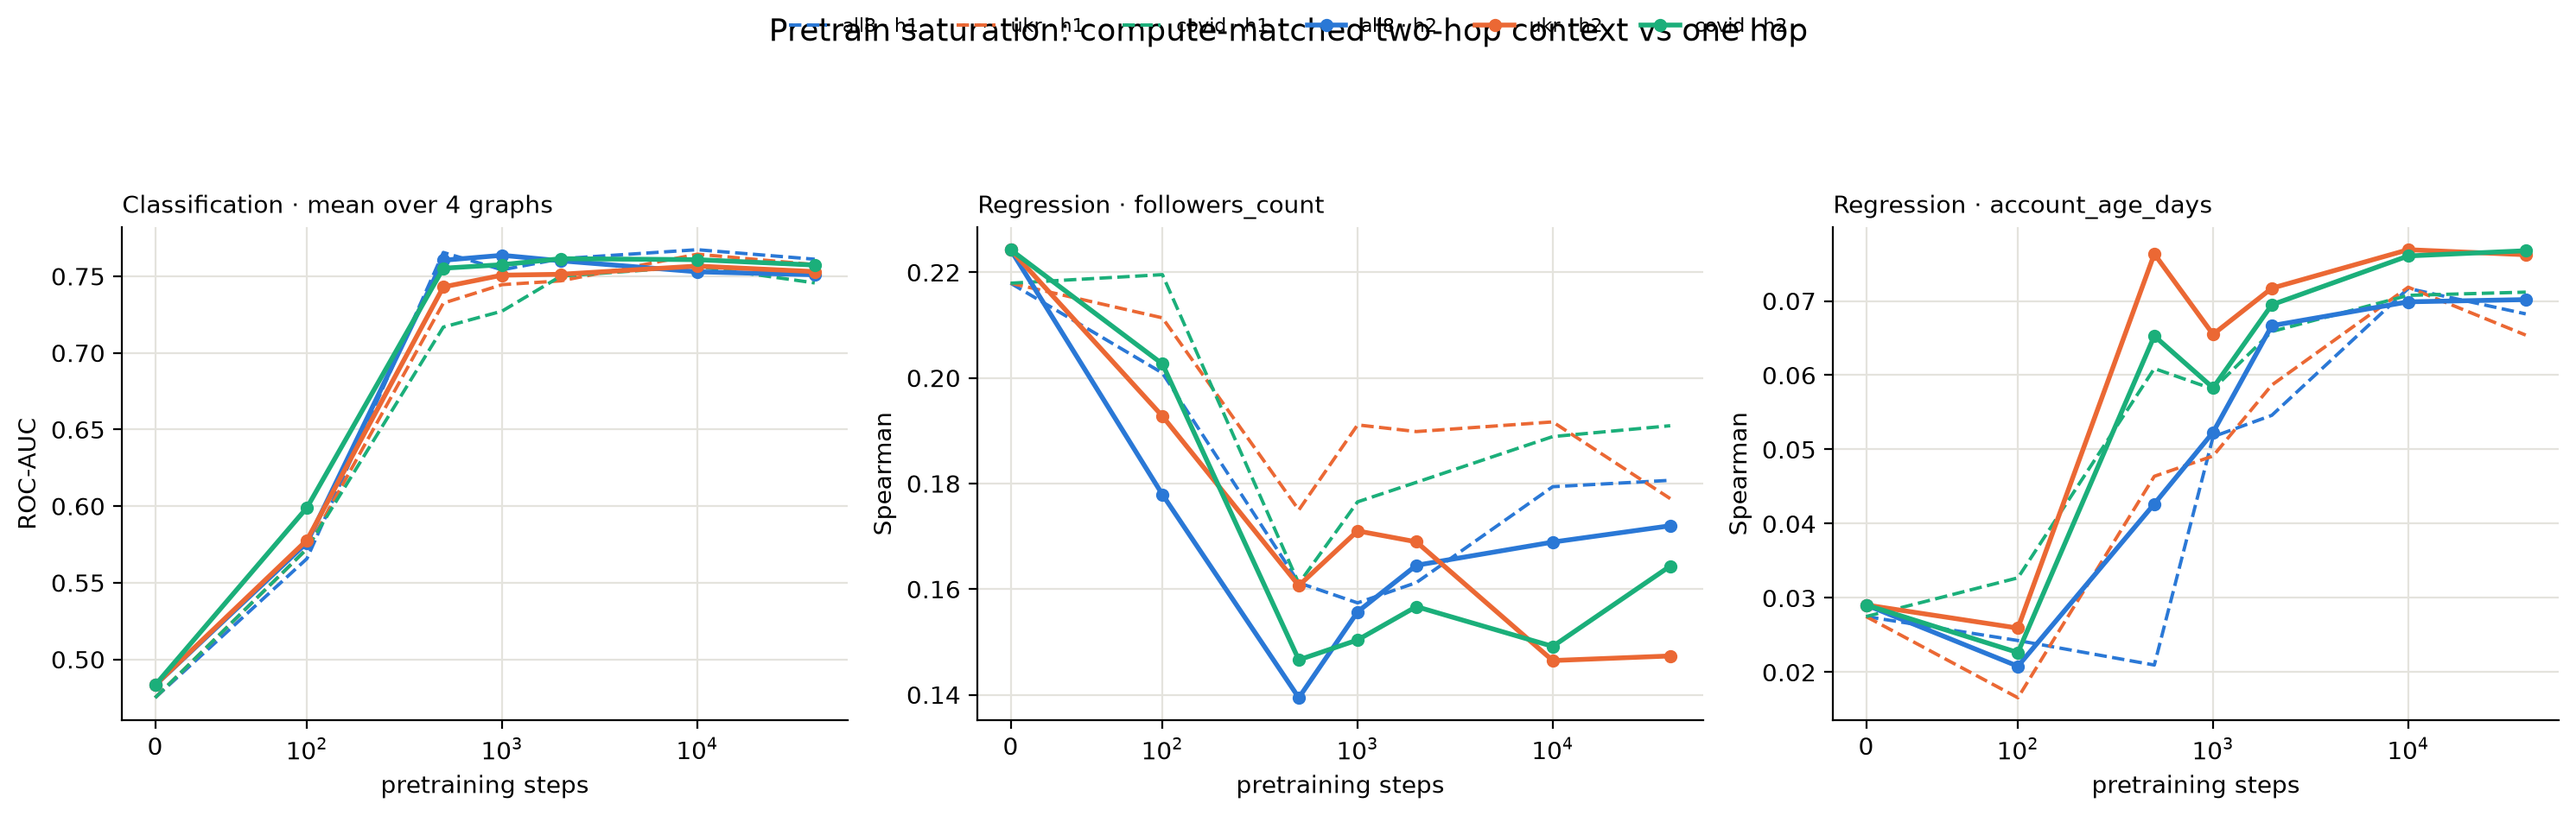
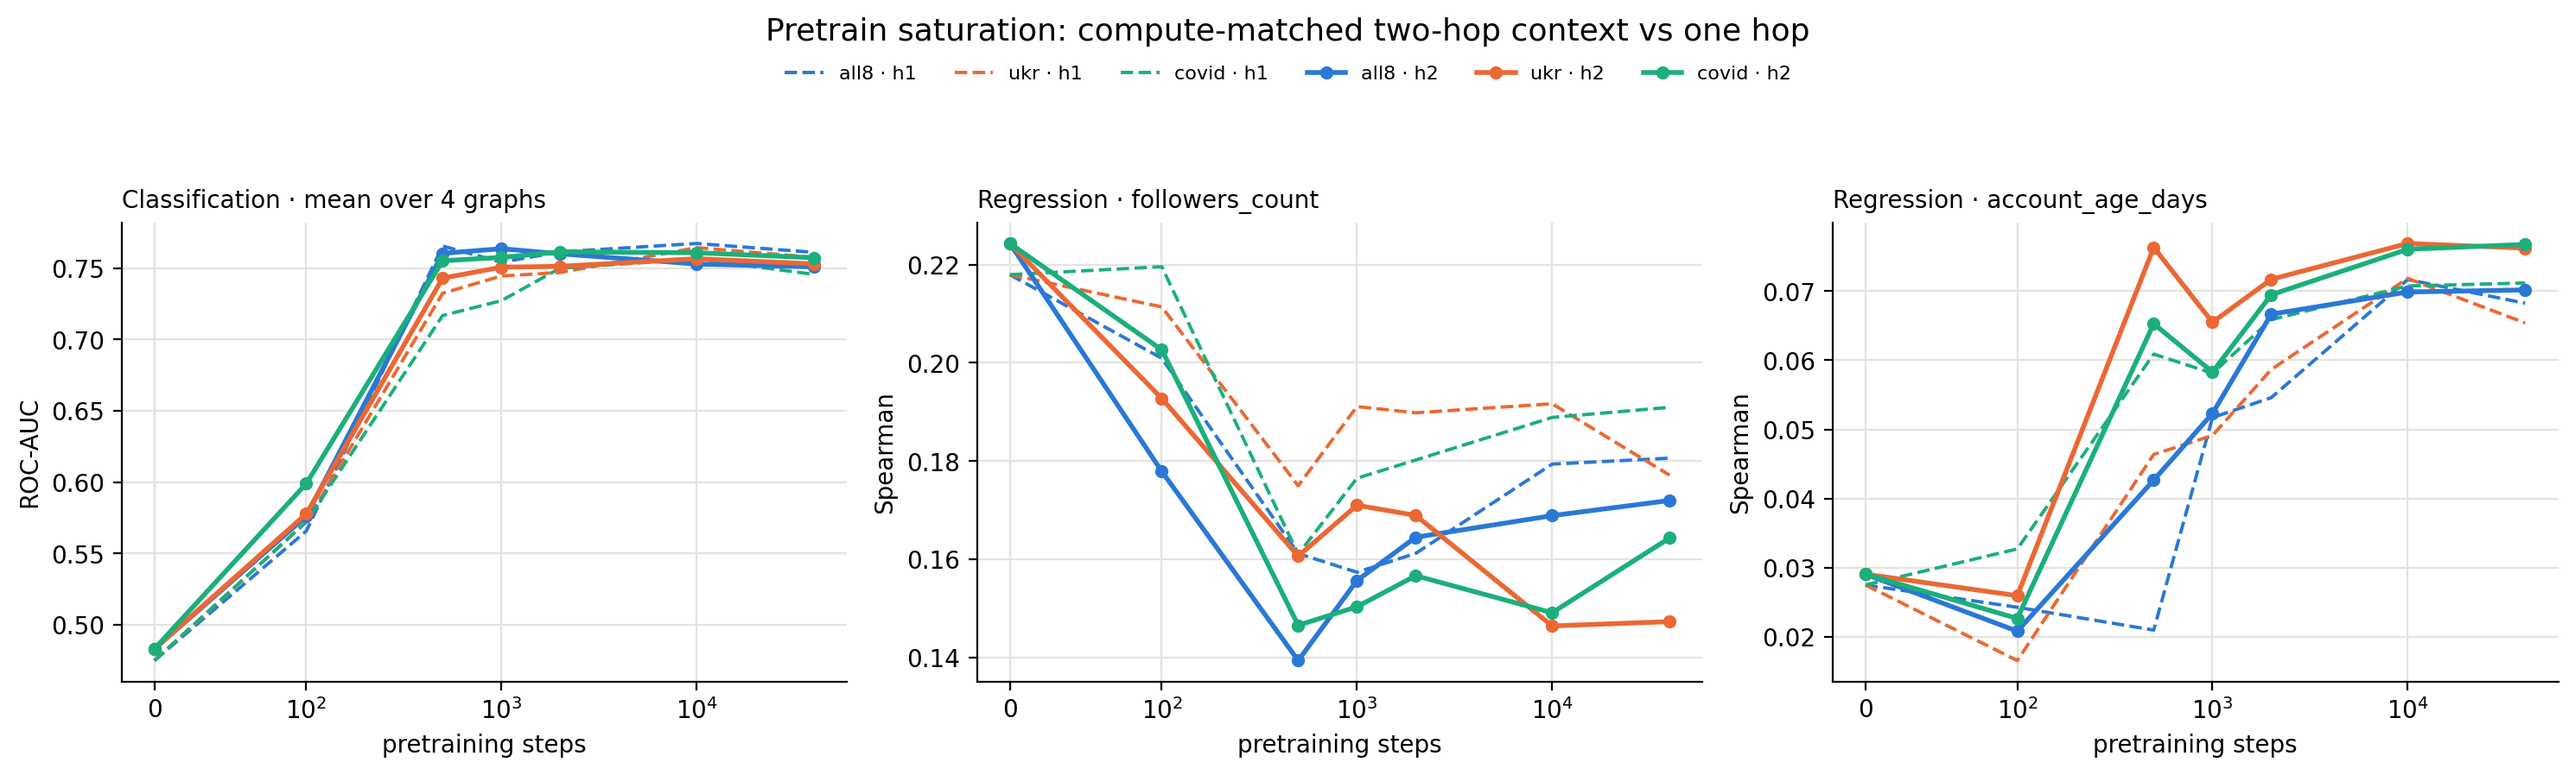
docs: record matched two-hop saturation findings

diff --git a/scripts/experiments/analysis/pretrain_saturation_nhop2/analyze_results.py b/scripts/experiments/analysis/pretrain_saturation_nhop2/analyze_results.py
@@ -286,10 +286,18 @@ def make_figure(h1: pd.DataFrame, h2: pd.DataFrame, out: Path) -> None:
         ax.grid(True, color="#e4e3dd", linewidth=0.8)
         ax.spines[["top", "right"]].set_visible(False)
     handles, labels = axes[0].get_legend_handles_labels()
-    fig.legend(handles, labels, frameon=False, ncol=6, loc="upper center", fontsize=8)
+    fig.legend(
+        handles,
+        labels,
+        frameon=False,
+        ncol=6,
+        loc="upper center",
+        bbox_to_anchor=(0.5, 0.955),
+        fontsize=8,
+    )
     fig.suptitle("Pretrain saturation: compute-matched two-hop context vs one hop",
-                 y=1.04, fontsize=13)
-    fig.tight_layout(rect=[0, 0, 1, 0.92])
+                 y=0.995, fontsize=13)
+    fig.tight_layout(rect=[0, 0, 1, 0.88])
     out.parent.mkdir(parents=True, exist_ok=True)
     fig.savefig(out, dpi=200, bbox_inches="tight", facecolor="white")
 

diff --git a/scripts/experiments/analysis/pretrain_saturation_nhop2/FINDINGS.md b/scripts/experiments/analysis/pretrain_saturation_nhop2/FINDINGS.md
@@ -1,0 +1,125 @@
+# Compute-matched two-hop pretrain saturation — findings
+
+**Question.** Does the early saturation seen with one-hop sampled context persist when
+the encoder receives genuine two-hop context at approximately the same per-subgraph
+compute budget?
+
+**Answer.** Yes for classification. Two-hop context reproduces the same sharp rise by
+step 500 and flat 500–40 000 plateau. It does not produce a consistent downstream gain
+over one hop. The repaired regression probe also preserves the earlier target split:
+`account_age_days` improves later, while `followers_count` is best at step 0 and declines
+with training.
+
+![Compute-matched one-hop and two-hop saturation curves](figures/nhop_comparison.png)
+
+## Controlled intervention
+
+The historical one-hop sampler uses fanout 100, so a center subgraph contains at most
+about 101 nodes and 100 sampled edges. A literal `n_hop=2` pilot reused fanout 100 and
+expanded toward the 2 000-node cap. It was roughly 20 times larger per subgraph, ran much
+more slowly, and confounded radius with compute. That pilot used `sat_h2_*` names, was
+stopped early, and is excluded from every committed table.
+
+The registered rerun changes only the context radius as closely as this sampler permits:
+
+- `n_hop=2`;
+- fanouts `9,9` (about 100 nodes and 99 sampled edges at maximum);
+- hard node cap 101; and
+- `neighbor_matching_walk_hops=1`, preserving the original direct-neighbour NM positive.
+
+The same sampler settings are used for pretraining and downstream embedding extraction.
+The architecture remains `S,U,M` with one background message-passing layer; two-hop
+nodes reach the global subgraph pooling readout, so this is not an `S2` experiment.
+
+## Execution record
+
+Three fresh arms (`all8`, `ukr`, `covid`) ran from initialization through exactly 40 000
+optimizer steps, with checkpoints at 0, 100, 500, 1 000, 2 000, 10 000, and 40 000.
+The three step-0 PyTorch archives have different file bytes but tensor-identical model
+states; the resolver hashes model tensors and collapses them to one shared evaluation.
+
+Downstream evaluation completed without logged failures:
+
+- 76/76 classification cells: 19 distinct checkpoints × 4 graphs, fixed 10-shot
+  episodes, ROC-AUC;
+- 152 frozen-encoder regression cells: 19 checkpoints × 4 graphs × 2 targets, 500
+  shared 10-shot ridge-probe episodes, Spearman; and
+- 8 raw-feature regression floors.
+
+The primary regression metric is Spearman. Some ridge fits have extreme RMSE/R² values;
+those scale-sensitive diagnostics are retained in the raw evidence but are not used for
+the saturation claim.
+
+## Classification saturation is robust to two-hop context
+
+Mean ROC-AUC over the four labelled graphs:
+
+| step | all8 | ukr | covid |
+|---:|---:|---:|---:|
+| 0 | 0.483 | 0.483 | 0.483 |
+| 100 | 0.576 | 0.578 | 0.599 |
+| 500 | **0.760** | 0.743 | 0.755 |
+| 1 000 | **0.764** | 0.751 | 0.757 |
+| 2 000 | 0.760 | 0.751 | **0.761** |
+| 10 000 | 0.753 | **0.757** | 0.761 |
+| 40 000 | 0.751 | 0.753 | 0.757 |
+
+By step 500, the arms have realized 98.3% (`all8`), 92.4% (`ukr`), and 96.2%
+(`covid`) of their step-0-to-best gain. The entire 500–40 000 range spans only 0.013,
+0.014, and 0.006 ROC-AUC respectively. Increasing the training budget another 80 times
+does not improve the mean classification result.
+
+## Two hops do not consistently beat one hop
+
+Across the 84 paired classification cells, compute-matched two-hop context changes mean
+ROC-AUC by +0.0072 (median +0.0033), with 48/84 cells positive. The effect is not uniform:
+
+| pretraining arm | mean two-hop minus one-hop ROC-AUC |
+|---|---:|
+| all8 | -0.0004 |
+| ukr | +0.0032 |
+| covid | +0.0187 |
+
+The pooled advantage is concentrated at steps 100–1 000 (+0.014 to +0.015). It is
+slightly negative at 10 000 (-0.0059) and essentially zero at 40 000 (-0.0010). Without
+independent training replicates for this intervention, the cell-level differences do not
+support a general claim that two-hop context improves transfer. They do support the
+stronger qualitative conclusion that early saturation is unchanged.
+
+## Regression keeps the target-specific split
+
+Mean Spearman over four graphs:
+
+| target | arm | step 0 | step 500 | step 10 000 | step 40 000 |
+|---|---|---:|---:|---:|---:|
+| followers | all8 | **0.224** | 0.139 | 0.169 | 0.172 |
+| followers | ukr | **0.224** | 0.161 | 0.147 | 0.147 |
+| followers | covid | **0.224** | 0.147 | 0.149 | 0.164 |
+| account age | all8 | 0.029 | 0.043 | 0.070 | **0.070** |
+| account age | ukr | 0.029 | 0.076 | **0.077** | 0.076 |
+| account age | covid | 0.029 | 0.065 | 0.076 | **0.077** |
+
+`followers_count` does not benefit from NM pretraining in either context regime; its
+shared untrained encoder is the best point. `account_age_days` improves and plateaus
+later, around 2 000–10 000 steps depending on arm. Relative to one hop, two hops reduce
+mean followers Spearman by 0.008–0.020 but increase account-age Spearman by 0.002–0.012.
+This opposite target response cancels in pooled regression averages and should not be
+summarized as one scalar effect.
+
+## Claim boundary
+
+This experiment establishes that the classification saturation result is not an artifact
+of restricting sampled context to one hop when per-subgraph node/edge budgets and the NM
+positive definition are held approximately fixed. It does **not** test deeper message
+passing, larger two-hop samples, or a two-step NM objective. It also does not establish
+two-hop superiority: the paired differences are small, heterogeneous, and lack training
+replicates.
+
+## Evidence map
+
+- `data/pretrain_saturation_nhop2_long.csv`: 252-row standalone two-hop matrix.
+- `data/nhop_comparison.csv`: 252 paired two-hop-minus-one-hop cells.
+- `data/summary.csv`: arm/task saturation diagnostics.
+- `data/regression_floors.csv`: eight raw-feature probe floors.
+- `data/reg_probe/`: four per-graph CSVs and JSON provenance sidecars.
+- `figures/nhop_comparison.png`: committed comparison figure.

diff --git a/scripts/experiments/analysis/_cross/README.md b/scripts/experiments/analysis/_cross/README.md
@@ -28,7 +28,7 @@ and it is the entry point to the analysis tree.
 | `nm_transfer_matrix/` | matched merged-vs-single comparison | `RESULTS.md` |
 | `pretrain_probe_matrix/` | frozen-probe matrix over pretraining strategies | `FINDINGS.md` |
 | `pretrain_saturation/` | downstream transfer vs pretraining step (`n_hop=1`) | `FINDINGS.md` |
-| `pretrain_saturation_nhop2/` | compute-matched two-hop-context saturation replication | — (running) |
+| `pretrain_saturation_nhop2/` | compute-matched two-hop-context saturation replication | `FINDINGS.md` |
 | `slp_evaluator_repair/` | the 2026-07-23 static-LP evaluator repair (method; evaluator itself in `scripts/eval/pair_link_*.py`) | `README.md` |
 | `topology_feature_ssl/` | topology-vs-feature SSL objectives (E-series) | `FINDINGS.md`, `RESULTS_directed3log.md` |
 | `best_pretrain_strat/`, `sampling_strat_comparison/`, `pretrain_strategy_benchmark/`, `node_classification/`, `node_regression/`, `static_link_prediction/`, `covid_task_transfer_matrix/` | earlier notebook-only analyses; no findings file | — |

diff --git a/scripts/experiments/analysis/pretrain_saturation_nhop2/README.md b/scripts/experiments/analysis/pretrain_saturation_nhop2/README.md
@@ -3,6 +3,9 @@
 Dedicated analysis for `setup/pretrain_saturation_nhop2/`. It does not read or mutate the
 append-only shared benchmark CSVs.
 
+Status: complete. See [`FINDINGS.md`](FINDINGS.md) for the interpretation and the exact
+scope of the claim.
+
 `analyze_results.py` requires a complete result matrix and reads:
 
 - classification ROC-AUC directly from this worktree's `log/eval_sat_h2m_*` metric JSONs;
@@ -18,9 +21,8 @@ writes:
 - `data/regression_floors.csv` — raw-feature floors from the same probe episodes; and
 - `figures/nhop_comparison.png` — h1 dashed versus h2 solid, including true step 0.
 
-Do not write findings until all three fresh 40k trajectories, 76 classification jobs,
-and four regression graph passes are complete and the raw evidence paths have been
-inspected.
+Completed evidence: three fresh 40k trajectories, 76/76 classification jobs, and four
+regression graph passes (40 rows each), with no logged failures.
 
 ```bash
 /opt/homebrew/bin/python3.11 \

diff --git a/scripts/experiments/setup/pretrain_saturation_nhop2/README.md b/scripts/experiments/setup/pretrain_saturation_nhop2/README.md
@@ -4,6 +4,10 @@ Fresh replication of `pretrain_saturation`, isolated from its spliced historical
 trajectories. Three corpora are trained from random initialization to exactly 40,000
 optimizer steps and checkpointed at `0, 100, 500, 1k, 2k, 10k, 40k`.
 
+Status: complete (3/3 trajectories, 76/76 classification evaluations, and all four
+regression probes). Evidence and interpretation are in
+[`analysis/pretrain_saturation_nhop2/FINDINGS.md`](../../analysis/pretrain_saturation_nhop2/FINDINGS.md).
+
 ## Controlled intervention
 
 The historical `n_hop=1` sampler uses fanout 100 and therefore extracts at most about
